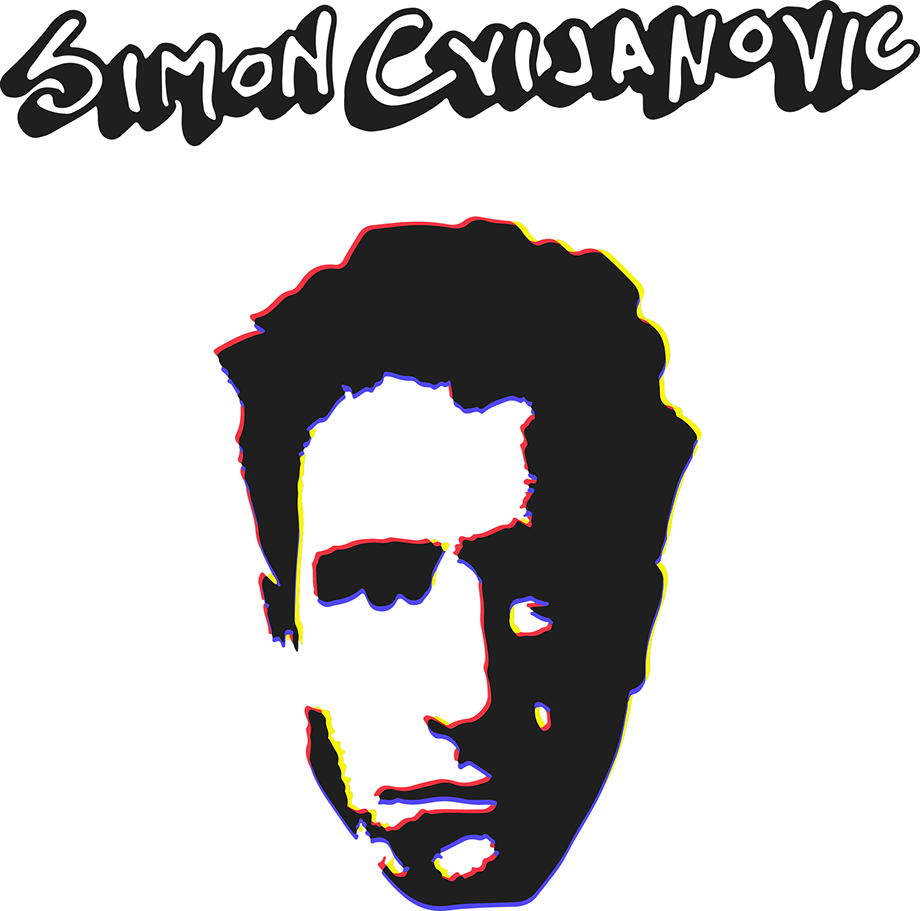
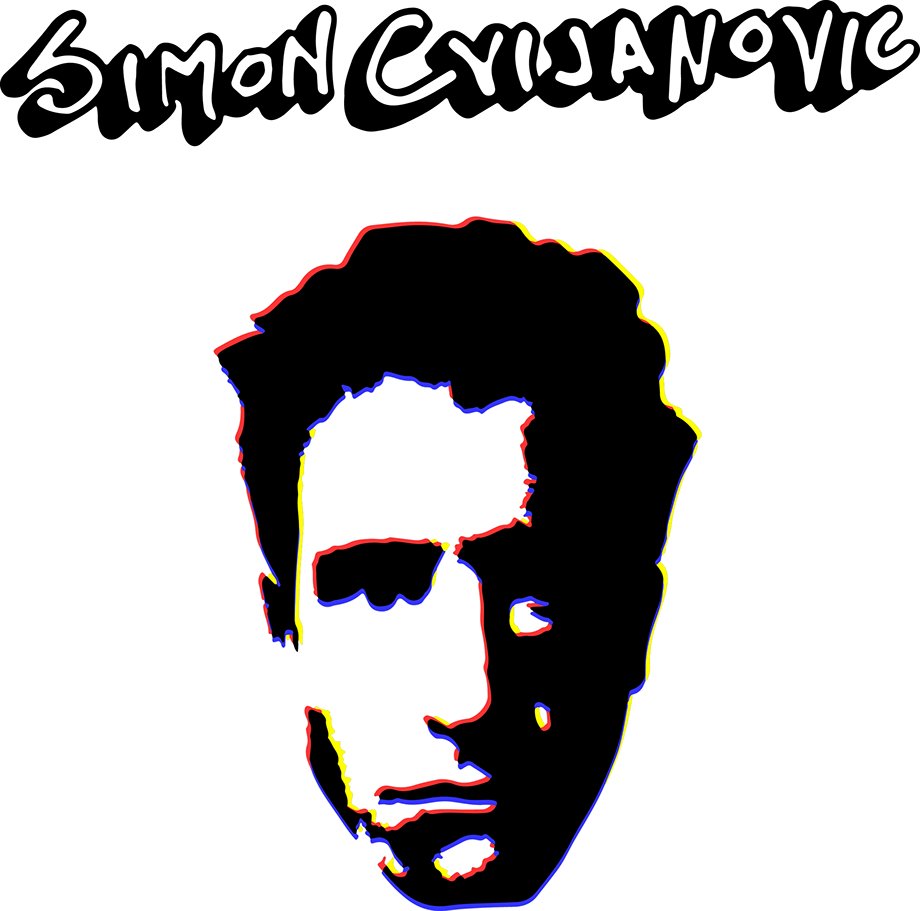
14

Changed region(s): [[0.2435, 0.2459, 0.7609, 1.0], [0.0, 0.0, 1.0, 0.1537]]

diff --git a/index.html b/index.html
@@ -20,10 +20,10 @@ if(typeof Muse == "undefined") window.Muse = {}; window.Muse.assets = {"required
   <title>coming soon..</title>
   <!-- CSS -->
   <link rel="stylesheet" type="text/css" href="css/site_global.css?crc=4041403569"/>
-  <link rel="stylesheet" type="text/css" href="css/index.css?crc=3795872575" id="pagesheet"/>
+  <link rel="stylesheet" type="text/css" href="css/index.css?crc=3838390331" id="pagesheet"/>
   <!-- IE-only CSS -->
   <!--[if lt IE 9]>
-  <link rel="stylesheet" type="text/css" href="css/nomq_index.css?crc=4121893277" id="nomq_pagesheet"/>
+  <link rel="stylesheet" type="text/css" href="css/nomq_index.css?crc=530722346" id="nomq_pagesheet"/>
   <![endif]-->
   <!-- Other scripts -->
   <script type="text/javascript">
@@ -38,8 +38,8 @@ if(typeof Muse == "undefined") window.Muse = {}; window.Muse.assets = {"required
 
   <div class="breakpoint active" id="bp_infinity" data-min-width="346"><!-- responsive breakpoint node -->
    <div class="clearfix borderbox" id="page"><!-- column -->
-    <div class="clip_frame colelem" id="u1161"><!-- image -->
-     <img class="block temp_no_img_src" id="u1161_img" data-orig-src="images/landingart.png?crc=535341763" alt="" data-image-width="920" data-image-height="911" src="images/blank.gif?crc=4208392903"/>
+    <div class="clip_frame colelem" id="u1526"><!-- image -->
+     <img class="block temp_no_img_src" id="u1526_img" data-orig-src="images/landingart.png?crc=125061310" alt="" data-image-width="920" data-image-height="911" src="images/blank.gif?crc=4208392903"/>
     </div>
     <div class="clearfix colelem shared_content" id="u197-4" data-content-guid="u197-4_content"><!-- content -->
      <p id="u197-2">simoncvijanovic.com coming soon..</p>
@@ -54,8 +54,8 @@ if(typeof Muse == "undefined") window.Muse = {}; window.Muse.assets = {"required
   </div>
   <div class="breakpoint" id="bp_345" data-max-width="345"><!-- responsive breakpoint node -->
    <div class="clearfix borderbox temp_no_id" data-orig-id="page"><!-- column -->
-    <div class="clip_frame colelem temp_no_id" data-orig-id="u1161"><!-- image -->
-     <img class="block temp_no_id temp_no_img_src" data-orig-src="images/landingart331x328.png?crc=3941660447" alt="" data-image-width="331" data-image-height="327" data-orig-id="u1161_img" src="images/blank.gif?crc=4208392903"/>
+    <div class="clip_frame colelem temp_no_id" data-orig-id="u1526"><!-- image -->
+     <img class="block temp_no_id temp_no_img_src" data-orig-src="images/landingart331x328.png?crc=3795271717" alt="" data-image-width="331" data-image-height="327" data-orig-id="u1526_img" src="images/blank.gif?crc=4208392903"/>
     </div>
     <span class="clearfix colelem placeholder" data-placeholder-for="u197-4_content"><!-- placeholder node --></span>
     <div class="clearfix colelem temp_no_id" data-orig-id="pu1313"><!-- group -->

diff --git a/css/index.css b/css/index.css
@@ -1,7 +1,7 @@
 .version.index /* version checker */
 {
-	color: #0000E2;
-	background-color: #406B3F;
+	color: #0000E4;
+	background-color: #C9303B;
 }
 
 #page
@@ -9,6 +9,7 @@
 	margin-right: auto;
 	border-color: #000000;
 	margin-left: auto;
+	padding-top: 62px;
 	background-color: transparent;
 	width: 100%;
 	z-index: 1;
@@ -16,15 +17,15 @@
 	border-width: 0px;
 }
 
-#u1161
+#u1526
 {
 	background-color: transparent;
 	left: 0px;
-	z-index: 6;
+	z-index: 12;
 	position: relative;
 }
 
-#u1161_img
+#u1526_img
 {
 	width: 100%;
 }
@@ -42,18 +43,10 @@
 
 #pu1313
 {
-	z-index: 12;
+	z-index: 10;
 }
 
 #u1313
-{
-	background-color: transparent;
-	z-index: 12;
-	margin-right: -10000px;
-	position: relative;
-}
-
-#u1301
 {
 	background-color: transparent;
 	z-index: 10;
@@ -61,10 +54,18 @@
 	position: relative;
 }
 
-#u1289
+#u1301
 {
 	background-color: transparent;
 	z-index: 8;
+	margin-right: -10000px;
+	position: relative;
+}
+
+#u1289
+{
+	background-color: transparent;
+	z-index: 6;
 	margin-right: -10000px;
 	position: relative;
 }
@@ -106,12 +107,11 @@ body
 	#page
 	{
 		min-height: 999.9506711409385px;
-		padding-top: 62px;
 		padding-bottom: 62.04932885906146px;
 		max-width: 960px;
 	}
 
-	#u1161
+	#u1526
 	{
 		width: 95.84%;
 		margin-left: 2.09%;
@@ -195,13 +195,12 @@ body
 
 	#page
 	{
-		min-height: 376px;
-		padding-top: 45px;
+		min-height: 359px;
 		padding-bottom: 62px;
 		max-width: 345px;
 	}
 
-	#u1161
+	#u1526
 	{
 		width: 95.95%;
 		margin-left: 2.03%;
@@ -212,7 +211,7 @@ body
 		min-height: 28px;
 		line-height: 22px;
 		font-size: 18px;
-		margin-top: 30px;
+		margin-top: 13px;
 		width: 95.66%;
 		margin-left: 2.18%;
 	}

diff --git a/css/nomq_index.css b/css/nomq_index.css
@@ -11,12 +11,11 @@
 	#page
 	{
 		min-height: 999.9506711409385px;
-		padding-top: 62px;
 		padding-bottom: 62.04932885906146px;
 		max-width: 960px;
 	}
 
-	#u1161
+	#u1526
 	{
 		width: 95.84%;
 		margin-left: 2.09%;
